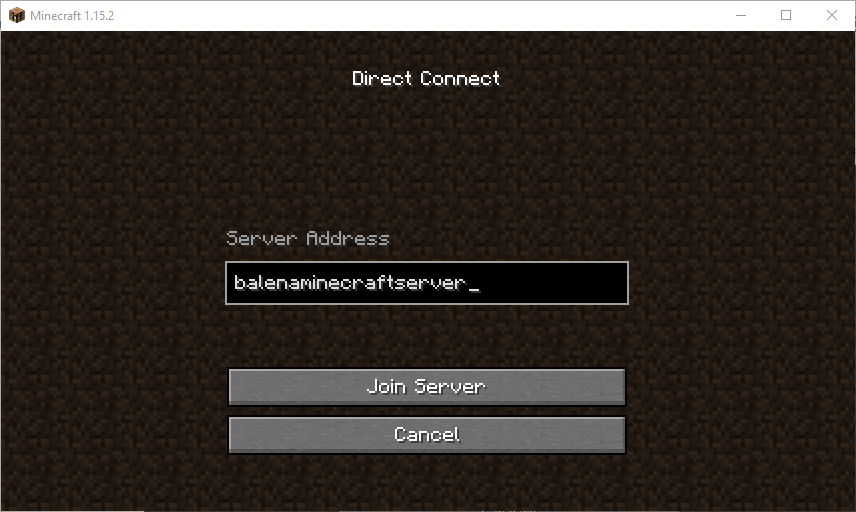
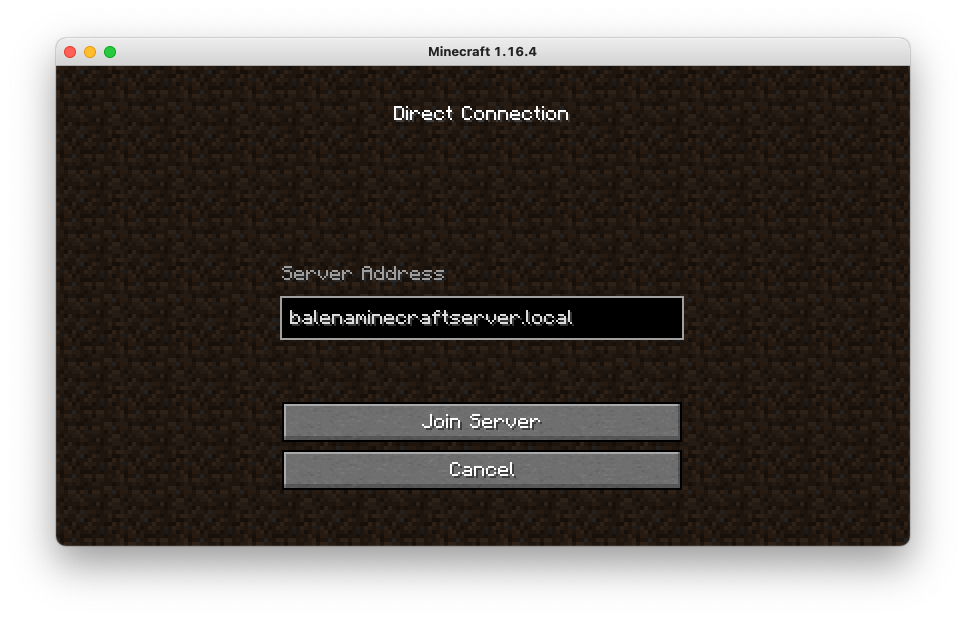
Auto download and validate latest server JAR (#72)
* Auto download and validate latest server JAR

Change-type: minor

* Handle case where sha256 file doesn't exist yet

Change-type: patch

* Confirm Jetson Nano support

Change-type: patch

* Use WiFi-connect balenablock to save ~145MB

Change-type: minor

* Load latest compatible Minecraft version

Change-type: patch

diff --git a/README.md b/README.md
@@ -1,9 +1,9 @@
 ![Balena Server Logo](images/logo.png)
 
-# A Minecraft server for the Raspberry Pi 4
-**Starter project enabling you a Minecraft Server using just a Raspberry Pi.**
+# Minecraft Server
+**Starter project enabling you a Minecraft Server using just a Raspberry Pi 4 or Jetson Nano.**
 
-This project has been tested on a Raspberry Pi 4 B 4GB. I do not recommend using a Raspberry Pi 3 or deeper. They have not enough RAM and power to calculate all the things. :boom:
+This project has been tested on a Raspberry Pi 4 B 4GB & Nvidia Jetson Nano. I do not recommend using a Raspberry Pi 3 or older. They have not enough RAM and power to calculate all the things. :boom:
 
 ## Why balenaMinecraftServer?
 
@@ -15,7 +15,7 @@ This project has been tested on a Raspberry Pi 4 B 4GB. I do not recommend using
 
 ## Hardware required
 
-* Raspberry Pi 4B (We recommend the 4GB or the 8GB model. 1GB is not enough! )
+* Raspberry Pi 4B (We recommend the 4GB or the 8GB model. 1GB is not enough!) or Nvidia Jetson Nano
 * A fan or cooling system to prevent lag caused by throttling
 * A 16GB or greater micro SD Card (We always recommend SanDisk Extreme Pro SD cards)
 * Power supply
@@ -31,13 +31,13 @@ This project has been tested on a Raspberry Pi 4 B 4GB. I do not recommend using
 
 To run this project is as simple as deploying it to a balenaCloud application; no additional configuration is required.
 
-### Setup the Raspberry Pi :cd:
+### Setup the device :cd:
 
 * Sign up for or login to the [balenaCloud dashboard](https://dashboard.balena-cloud.com)
 * Create an application, selecting the correct device type for your Raspberry Pi
 * Add a device to the application, enabling you to download the OS
 * Flash the downloaded OS to your SD card with [balenaEtcher](https://balena.io/etcher)
-* Power up the Pi and check it's online in the dashboard
+* Power up the board and check it's online in the dashboard
 
 ### One Click Deployment
 
@@ -53,7 +53,7 @@ You can deploy this server with one click with the button below. Or, you can fol
 
 ## Connect to the server :satellite:
 
-Balena Minecraft Server sets automatically your Server hostname to `balenaminecraftserver`. It is the address the from your server. You can connect to it like that:
+Balena Minecraft Server sets automatically your Server hostname to `balenaminecraftserver.local`. It is the address the from your server. You can connect to it like this:
 
 **Note:** The IP address also works.
 
@@ -87,7 +87,7 @@ balenaMinecraftServer has wifi-connect integrated. You can use it for taking the
 ## Change hostname
 You can change the hostname by defining the DEVICE_HOSTNAME Environment Variable within balenaCloud.
 
-**NOTE:** If you decide to change the hostname, you will have to use your new hostname within Minecraft to connect to the server, instead of `balenaminecraftserver`.
+**NOTE:** If you decide to change the hostname, you will have to use your new hostname within Minecraft to connect to the server, instead of `balenaminecraftserver.local`.
 
 ## Custom RAM (optional) :link:
 
